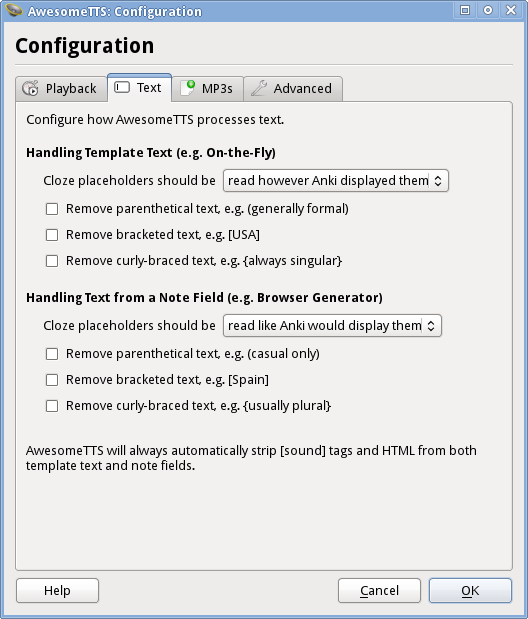
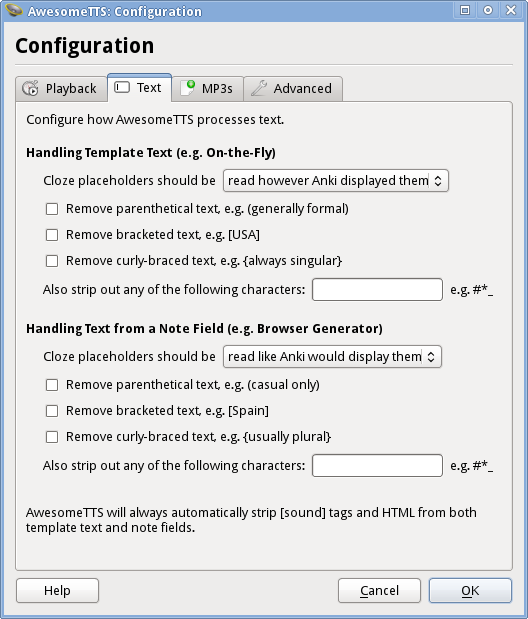
Provide option to strip specific characters
As a last-minute user request before releasing 1.0.0, this adds support
to blacklist certain characters from being spoken or recorded.

Closes #38.

diff --git a/addon/awesometts/__init__.py b/addon/awesometts/__init__.py
@@ -119,9 +119,11 @@ config = Config(
         ('strip_note_braces', 'integer', False, TO_BOOL, int),
         ('strip_note_brackets', 'integer', False, TO_BOOL, int),
         ('strip_note_parens', 'integer', False, TO_BOOL, int),
+        ('strip_note_specific', 'text', '', unicode, unicode),
         ('strip_template_braces', 'integer', False, TO_BOOL, int),
         ('strip_template_brackets', 'integer', False, TO_BOOL, int),
         ('strip_template_parens', 'integer', False, TO_BOOL, int),
+        ('strip_template_specific', 'text', '', unicode, unicode),
         ('sub_note_cloze', 'text', 'anki', str, str),
         ('sub_template_cloze', 'text', 'anki', str, str),
         ('templater_cloze', 'integer', True, TO_BOOL, int),
@@ -224,6 +226,14 @@ STRIP_CONDITIONALLY_TEMPLATE = lambda text: \
     STRIP_CONDITIONALLY(RE_TEXT_IN_PARENS, 'strip_template_parens',
         text
     )))
+
+STRIP_SPEC = lambda key, text: \
+    ''.join(c for c in text if c not in config[key]) if config[key] \
+    else text
+
+STRIP_SPEC_NOTE = lambda text: STRIP_SPEC('strip_note_specific', text)
+
+STRIP_SPEC_TEMPLATE = lambda text: STRIP_SPEC('strip_template_specific', text)
 
 SUB_CLOZES_NOTE = lambda text: RE_CLOZE_NOTE.sub(
     lambda match:
@@ -370,31 +380,35 @@ addon = Bundle(
         from_note=lambda text:
             COLLAPSE_WHITESPACE(
             COLLAPSE_ELLIPSES(
+            STRIP_SPEC_NOTE(
             STRIP_CONDITIONALLY_NOTE(
             STRIP_FILENAMES(
             STRIP_SOUNDS(
             STRIP_HTML(
             SUB_CLOZES_NOTE(
                 text
-            ))))))),
+            )))))))),
 
         # for cleaning up already-processed HTML templates (e.g. on-the-fly,
         # where cloze is marked with <span class=cloze></span> tags)
         from_template=lambda text:
             COLLAPSE_WHITESPACE(
             COLLAPSE_ELLIPSES(
+            STRIP_SPEC_TEMPLATE(
             STRIP_CONDITIONALLY_TEMPLATE(
             STRIP_FILENAMES(
             STRIP_SOUNDS(
             STRIP_HTML(
             SUB_CLOZES_TEMPLATE(
                 text
-            ))))))),
+            )))))))),
 
         # for cleaning up text from unknown sources (e.g. system clipboard)
         from_unknown=lambda text:
             COLLAPSE_WHITESPACE(
             COLLAPSE_ELLIPSES(
+            STRIP_SPEC_TEMPLATE(
+            STRIP_SPEC_NOTE(
             STRIP_CONDITIONALLY_TEMPLATE(
             STRIP_CONDITIONALLY_NOTE(
             STRIP_FILENAMES(
@@ -403,7 +417,7 @@ addon = Bundle(
             SUB_CLOZES_TEMPLATE(
             SUB_CLOZES_NOTE(
                 text
-            ))))))))),
+            ))))))))))),
 
         # for direct user input (e.g. previews, EditorGenerator insertion)
         from_user=lambda text:

diff --git a/addon/awesometts/gui/configurator.py b/addon/awesometts/gui/configurator.py
@@ -45,10 +45,11 @@ class Configurator(Dialog):
         'delay_answers_stored_theirs', 'delay_questions_onthefly',
         'delay_questions_stored_ours', 'delay_questions_stored_theirs',
         'lame_flags', 'strip_note_braces', 'strip_note_brackets',
-        'strip_note_parens', 'strip_template_braces',
-        'strip_template_brackets', 'strip_template_parens', 'sub_note_cloze',
-        'sub_template_cloze', 'throttle_sleep', 'throttle_threshold',
-        'tts_key_a', 'tts_key_q', 'updates_enabled',
+        'strip_note_parens', 'strip_note_specific', 'strip_template_braces',
+        'strip_template_brackets', 'strip_template_parens',
+        'strip_template_specific', 'sub_note_cloze', 'sub_template_cloze',
+        'throttle_sleep', 'throttle_threshold', 'tts_key_a', 'tts_key_q',
+        'updates_enabled',
     ]
 
     _PROPERTY_WIDGETS = (
@@ -309,10 +310,46 @@ class Configurator(Dialog):
             checkbox.setObjectName(infix.join(['strip', option_subkey]))
             layout.addWidget(checkbox)
 
+        layout.addLayout(self._ui_tabs_text_mode_specific(infix))
+
         group = QtGui.QGroupBox(label)
         group.setLayout(layout)
 
         return group
+
+    def _ui_tabs_text_mode_specific(self, infix):
+        """Returns a horizontal layout for character stripping."""
+
+        specific = QtGui.QLineEdit()
+        specific.setObjectName(infix.join(['strip', 'specific']))
+        specific.setValidator(self._ui_tabs_text_mode_specific.ucsv)
+
+        horizontal = QtGui.QHBoxLayout()
+        horizontal.addWidget(QtGui.QLabel("Also strip out any of the "
+                                          "following characters:"))
+        horizontal.addWidget(specific)
+        horizontal.addWidget(QtGui.QLabel("e.g. #*_"))
+
+        return horizontal
+
+    class _UniqueCharacterStringValidator(QtGui.QValidator):
+        """
+        Provides a QValidator-compliant class that returns a string of
+        unique, sorted characters containing no whitespace.
+        """
+
+        def fixup(self, original):
+            """Returns unique characters from original, sorted."""
+
+            return ''.join(sorted({c for c in original if not c.isspace()}))
+
+        def validate(self, original, offset):  # pylint:disable=W0613
+            """Fixes original text and resets cursor to end of line."""
+
+            filtered = self.fixup(original)
+            return QtGui.QValidator.Acceptable, filtered, len(filtered)
+
+    _ui_tabs_text_mode_specific.ucsv = _UniqueCharacterStringValidator()
 
     def _ui_tabs_mp3gen(self):
         """
